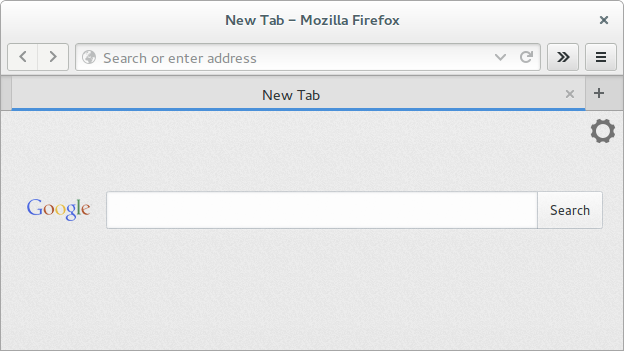
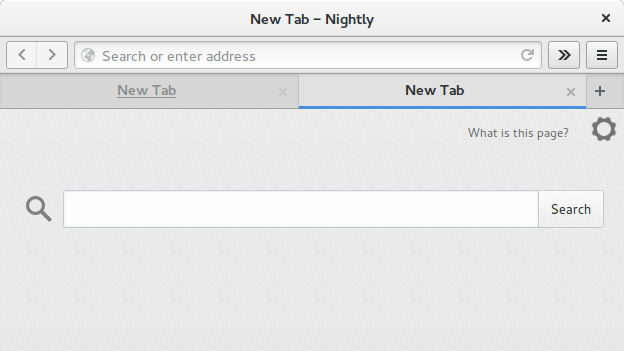
Update tutorial

diff --git a/README.md b/README.md
@@ -9,9 +9,12 @@ This tutorial will help you to better integrate Firefox with GNOME
 [Install theme](https://launchpad.net/gnome-integration/firefox-gnome/firefox-gnome-releases) that matches your Firefox version (newer are on top)
 
  * Restart Firefox
- * Open Firefox menu and select `Customize...` and go to `GNOME Tweaks` in bottom left
- * Check `Relief buttons on navigation toolbar` and `Disable animation of popups`
- * Select `Maximum tab width: Stretch`
+ * Open Firefox menu and select `Customize...`
+ * go to `GNOME Tweaks` in bottom left
+ * check `Relief buttons on navigation toolbar`
+ * check `Bold tab label`
+ * set `Maximum tab width` to `Stretch`
+ * check `Hide the history dropmarker in the URL bar`
 
 ![Screenshot](screenshots/1.png)
 
